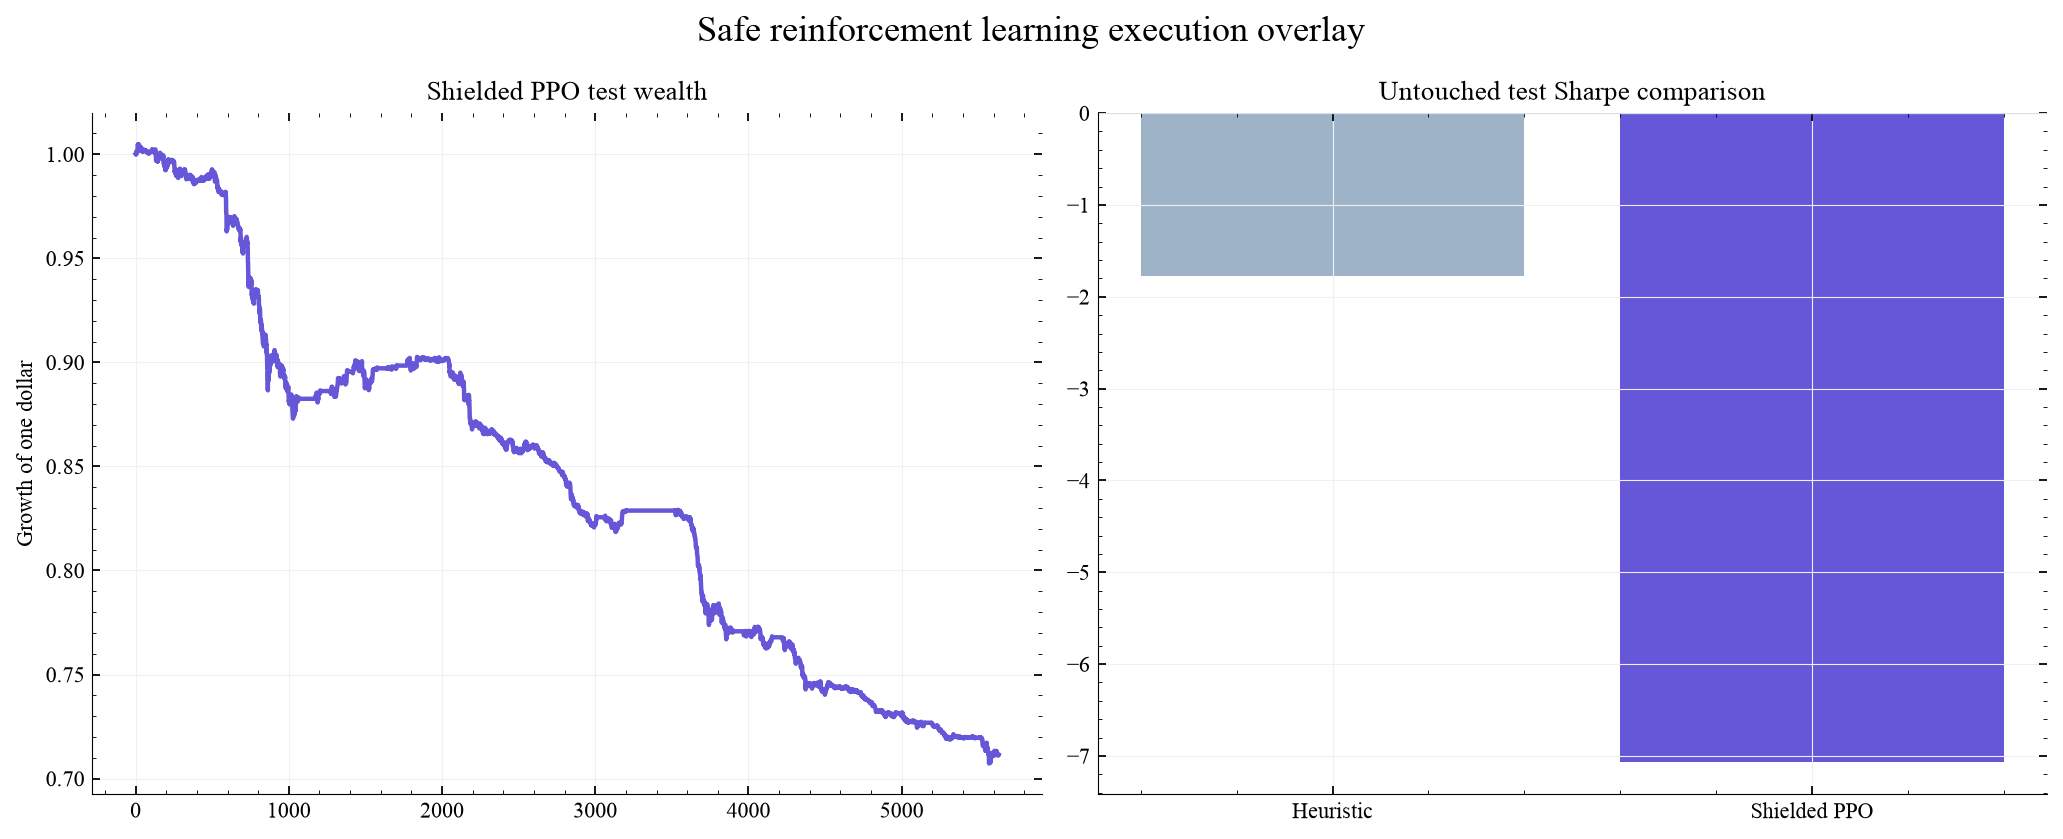
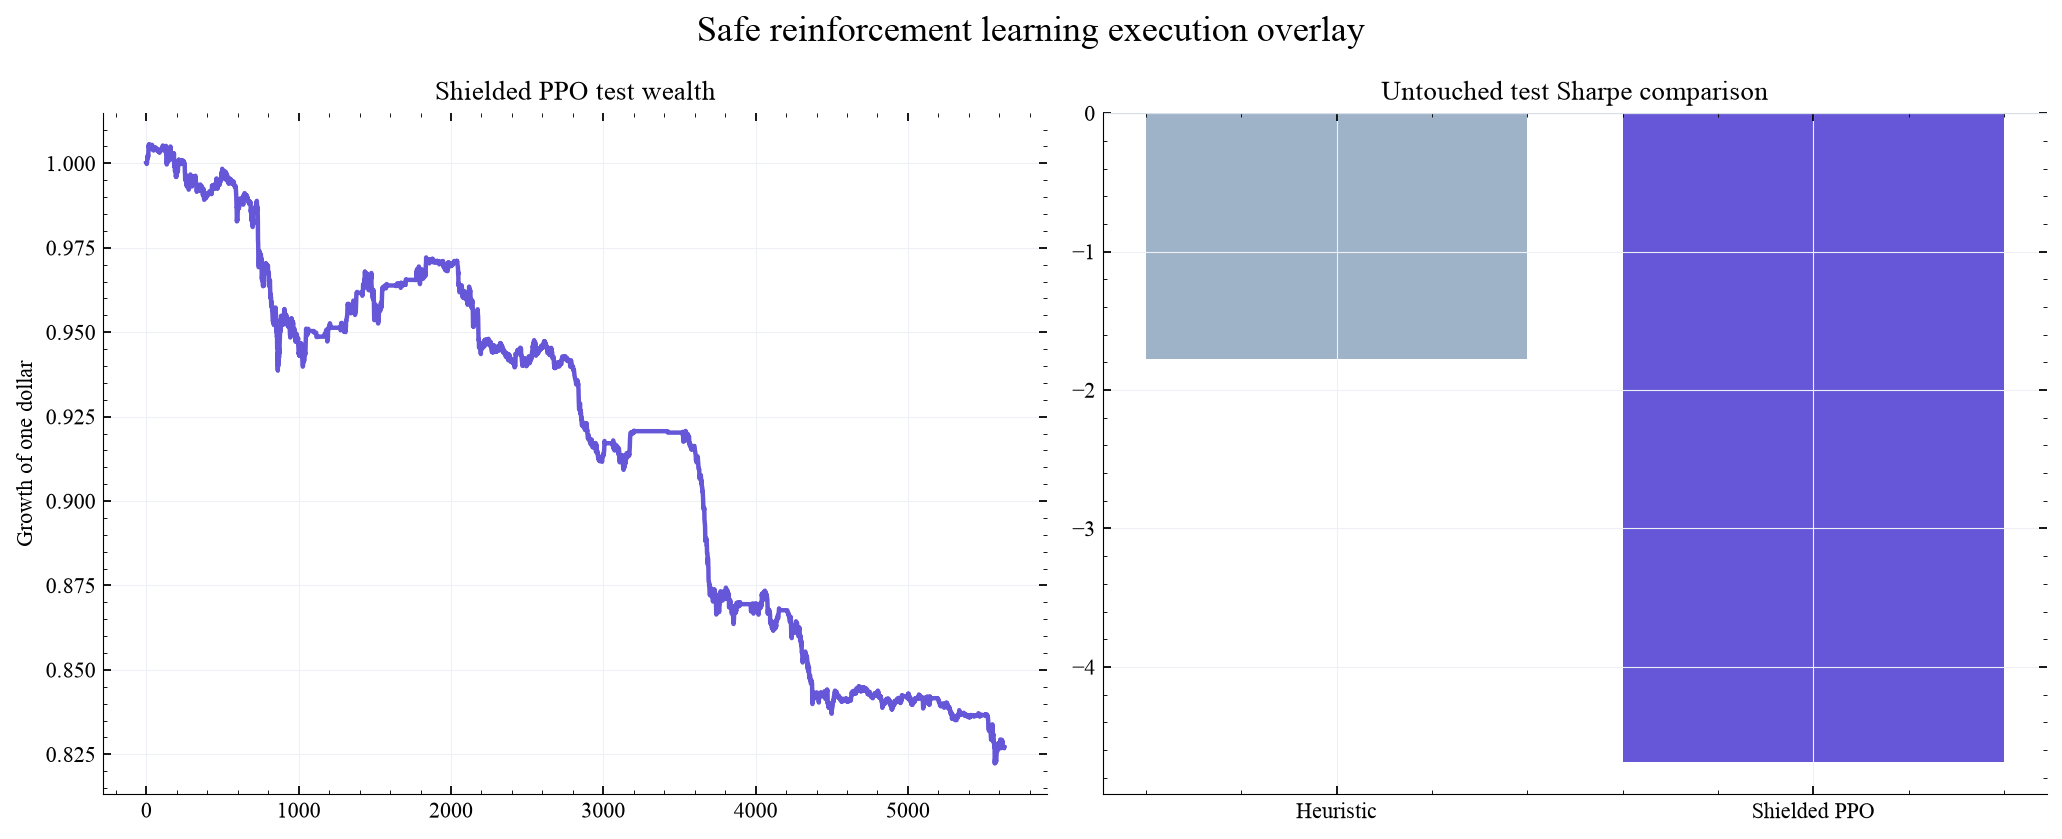
Evaluate selective PPO candidates

diff --git a/scripts/train_ppo_overlay.py b/scripts/train_ppo_overlay.py
@@ -57,7 +57,7 @@ def build_arrays(closes: pd.DataFrame, selected: pd.DataFrame, lookback: int = 3
     return joined.index, features, pair_returns, directions, zscores
 
 
-def make_environment(features, returns, directions, zscores, index):
+def make_environment(features, returns, directions, zscores, index, activity_penalty_bps=0.0):
     return PairExecutionEnv(
         features.loc[index].to_numpy(),
         returns.loc[index].to_numpy(),
@@ -65,6 +65,7 @@ def make_environment(features, returns, directions, zscores, index):
         zscores.loc[index].to_numpy(),
         cost_bps=10,
         maximum_active_pairs=2,
+        activity_penalty_bps=activity_penalty_bps,
     )
 
 
@@ -89,32 +90,69 @@ def main() -> None:
     train_index = index[index <= TRAIN_END]
     validation_index = index[(index > TRAIN_END) & (index <= VALIDATION_END)]
     test_index = index[index > VALIDATION_END]
-    train_environment = make_environment(features, returns, directions, zscores, train_index)
-    check_env(train_environment)
-    model = PPO(
-        "MlpPolicy",
-        train_environment,
-        seed=17,
-        learning_rate=3e-4,
-        n_steps=1024,
-        batch_size=256,
-        gamma=0.995,
-        ent_coef=0.01,
-        policy_kwargs={"net_arch": [128, 128]},
-        verbose=0,
-    )
-    model.learn(total_timesteps=100_000, progress_bar=False)
-
-    validation = evaluate(model, make_environment(features, returns, directions, zscores, validation_index))
+    candidate_configs = [
+        {"seed": 17, "activity_penalty_bps": 0.25},
+        {"seed": 29, "activity_penalty_bps": 0.50},
+        {"seed": 41, "activity_penalty_bps": 1.00},
+    ]
+    candidates = []
+    models = []
+    for config in candidate_configs:
+        train_environment = make_environment(
+            features,
+            returns,
+            directions,
+            zscores,
+            train_index,
+            config["activity_penalty_bps"],
+        )
+        check_env(train_environment)
+        candidate = PPO(
+            "MlpPolicy",
+            train_environment,
+            seed=config["seed"],
+            learning_rate=2e-4,
+            n_steps=1024,
+            batch_size=256,
+            gamma=0.995,
+            ent_coef=0.0,
+            policy_kwargs={"net_arch": [128, 128]},
+            verbose=0,
+        )
+        candidate.learn(total_timesteps=80_000, progress_bar=False)
+        validation = evaluate(
+            candidate,
+            make_environment(features, returns, directions, zscores, validation_index),
+        )
+        metrics = annualized_metrics(validation["net_return"])
+        candidates.append(
+            {
+                **config,
+                "validation_sharpe": metrics["sharpe"],
+                "validation_return": metrics["annual_return"],
+                "validation_drawdown": metrics["maximum_drawdown"],
+                "validation_activity": float((validation["active_pairs"] > 0).mean()),
+            }
+        )
+        models.append(candidate)
+    candidate_table = pd.DataFrame(candidates)
+    scores = candidate_table["validation_sharpe"].fillna(-1e9)
+    selected_location = int(scores.to_numpy().argmax())
+    model = models[selected_location]
+    selected_config = candidate_configs[selected_location]
     test = evaluate(model, make_environment(features, returns, directions, zscores, test_index))
     test_metrics = annualized_metrics(test["net_return"])
     test_metrics.update(
         active_pair_hours=int((test["active_pairs"] > 0).sum()),
         activity_fraction=float((test["active_pairs"] > 0).mean()),
         shield_interventions=int(test["shield_changed_action"].sum()),
-        validation_sharpe=annualized_metrics(validation["net_return"])["sharpe"],
-        training_steps=100_000,
-        seed=17,
+        validation_sharpe=float(candidate_table.iloc[selected_location]["validation_sharpe"]),
+        validation_activity=float(candidate_table.iloc[selected_location]["validation_activity"]),
+        training_steps=80_000,
+        seed=int(selected_config["seed"]),
+        activity_penalty_bps=float(selected_config["activity_penalty_bps"]),
+        candidate_count=len(candidate_configs),
+        evaluation_status="exploratory because the 2026 period was viewed after the first policy",
     )
 
     outputs = ROOT / "outputs"
@@ -123,6 +161,7 @@ def main() -> None:
     for directory in [outputs, assets, models]:
         directory.mkdir(parents=True, exist_ok=True)
     model.save(models / "ppo_execution_overlay")
+    candidate_table.to_csv(outputs / "ppo_validation_candidates.csv", index=False)
     test.to_csv(outputs / "ppo_test_path.csv", index=False)
     with open(outputs / "ppo_results.json", "w", encoding="utf-8") as handle:
         json.dump(test_metrics, handle, indent=2)

diff --git a/src/crypto_pair_rl/environment.py b/src/crypto_pair_rl/environment.py
@@ -37,6 +37,7 @@ class PairExecutionEnv(gym.Env):
         zscores: np.ndarray,
         cost_bps: float = 10.0,
         maximum_active_pairs: int = 2,
+        activity_penalty_bps: float = 0.0,
     ) -> None:
         super().__init__()
         self.observations = np.asarray(observations, dtype=np.float32)
@@ -52,6 +53,7 @@ class PairExecutionEnv(gym.Env):
             raise ValueError("Environment arrays must have equal length")
         self.pair_count = self.next_returns.shape[1]
         self.cost_rate = cost_bps / 10_000
+        self.activity_penalty_bps = activity_penalty_bps
         self.maximum_active_pairs = maximum_active_pairs
         self.action_space = spaces.MultiDiscrete([3] * self.pair_count)
         feature_count = self.observations.shape[1] + self.pair_count
@@ -87,7 +89,8 @@ class PairExecutionEnv(gym.Env):
         self.wealth *= max(1.0 + net_return, 1e-6)
         self.peak = max(self.peak, self.wealth)
         drawdown = 1.0 - self.wealth / self.peak
-        reward = net_return * 10_000 - 0.05 * drawdown
+        active_fraction = np.count_nonzero(positions) / self.pair_count
+        reward = net_return * 10_000 - self.activity_penalty_bps * active_fraction - 0.05 * drawdown
         self.current_positions = positions
         self.location += 1
         terminated = self.location >= len(self.observations) - 1

diff --git a/tests/test_environment.py b/tests/test_environment.py
@@ -23,3 +23,18 @@ def test_environment_reports_cost_and_shielding():
     assert info["shield_changed_action"]
     assert info["active_pairs"] == 1
     assert info["turnover"] == 0.5
+
+
+def test_activity_penalty_reduces_reward_without_changing_return():
+    observations = np.zeros((4, 2))
+    returns = np.ones((4, 1)) * 0.001
+    directions = np.ones((4, 1))
+    zscores = np.ones((4, 1)) * 2.0
+    plain = PairExecutionEnv(observations, returns, directions, zscores)
+    selective = PairExecutionEnv(observations, returns, directions, zscores, activity_penalty_bps=1.0)
+    plain.reset()
+    selective.reset()
+    _, plain_reward, _, _, plain_info = plain.step(np.array([2]))
+    _, selective_reward, _, _, selective_info = selective.step(np.array([2]))
+    assert selective_reward < plain_reward
+    assert selective_info["net_return"] == plain_info["net_return"]

diff --git a/README.md b/README.md
@@ -22,6 +22,10 @@ This first policy fails. It remains active during 83.0 percent of test hours and
 
 ![First shielded PPO diagnostic](docs/assets/ppo_overlay.png)
 
+A controlled follow up compares three PPO candidates using 2025 validation performance only. Activity penalties range from 0.25 to 1.00 basis points and each candidate uses a different fixed seed. Every validation Sharpe remains negative. The selected candidate improves the exploratory 2026 Sharpe from negative 7.07 to negative 4.69 and reduces maximum drawdown from 29.6 percent to 18.2 percent, but activity remains excessive at 83.2 percent.
+
+This evidence rejects the present action formulation. The next version will treat abstention as the default decision and require the policy to earn permission to activate a deterministic trade. Because the 2026 period was already viewed after the first PPO run, all current 2026 policy comparisons are explicitly exploratory.
+
 ## Initial pair screen
 
 The first experiment estimates hedge relations, spread stationarity, mean reversion speed, and pair rankings.
